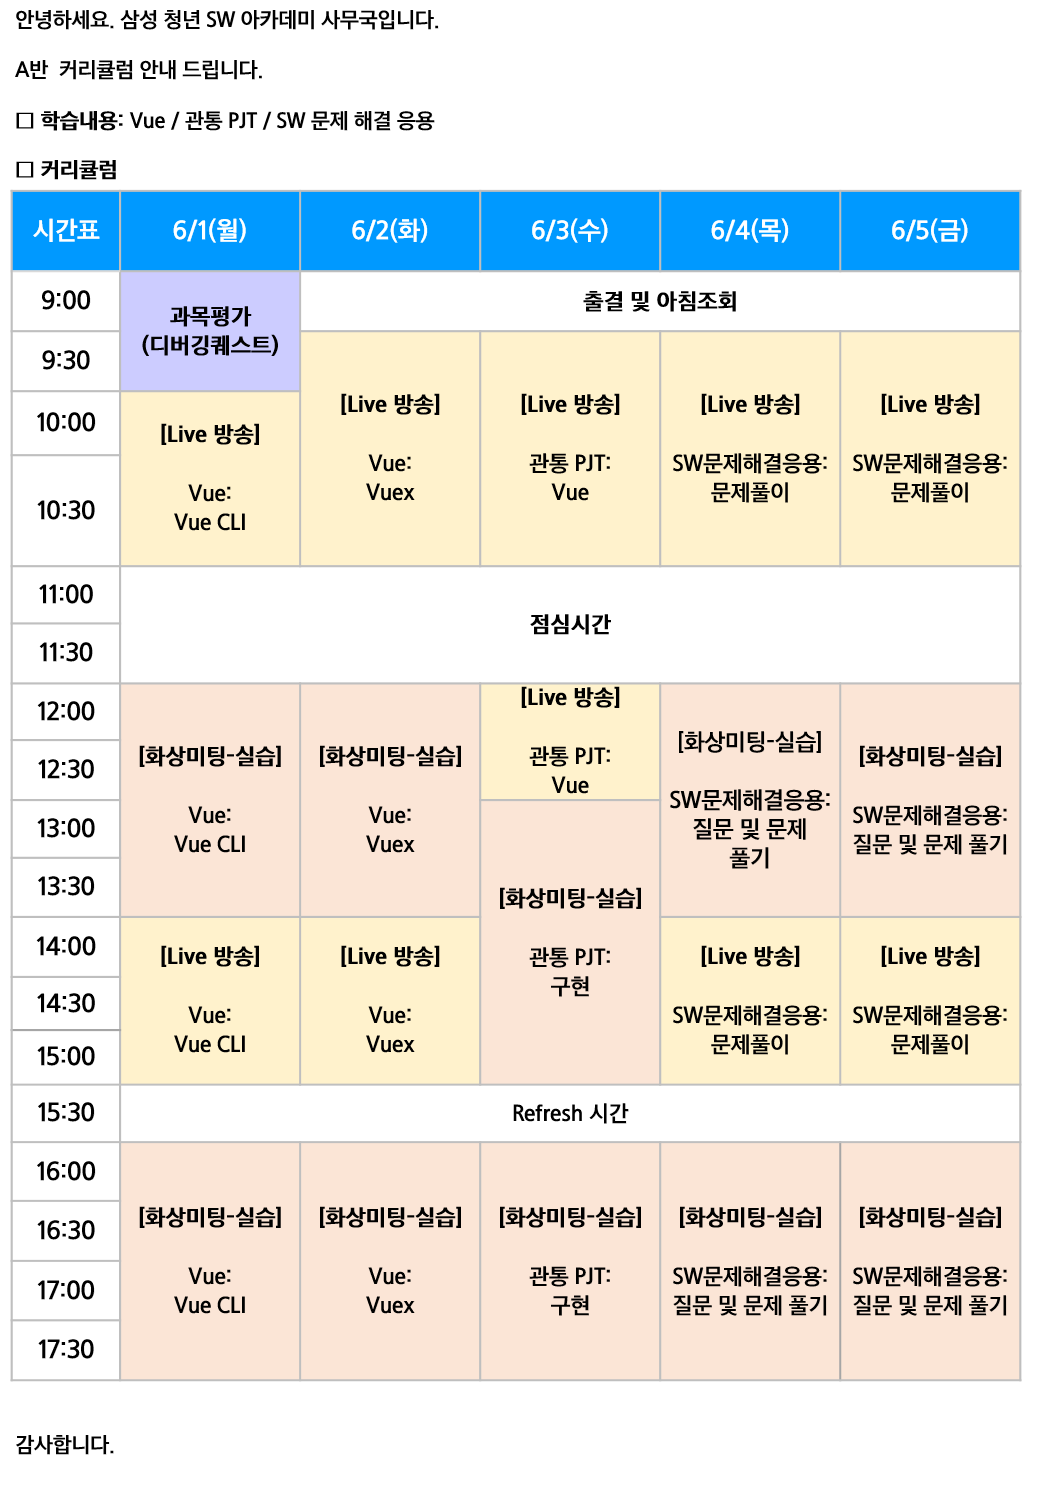
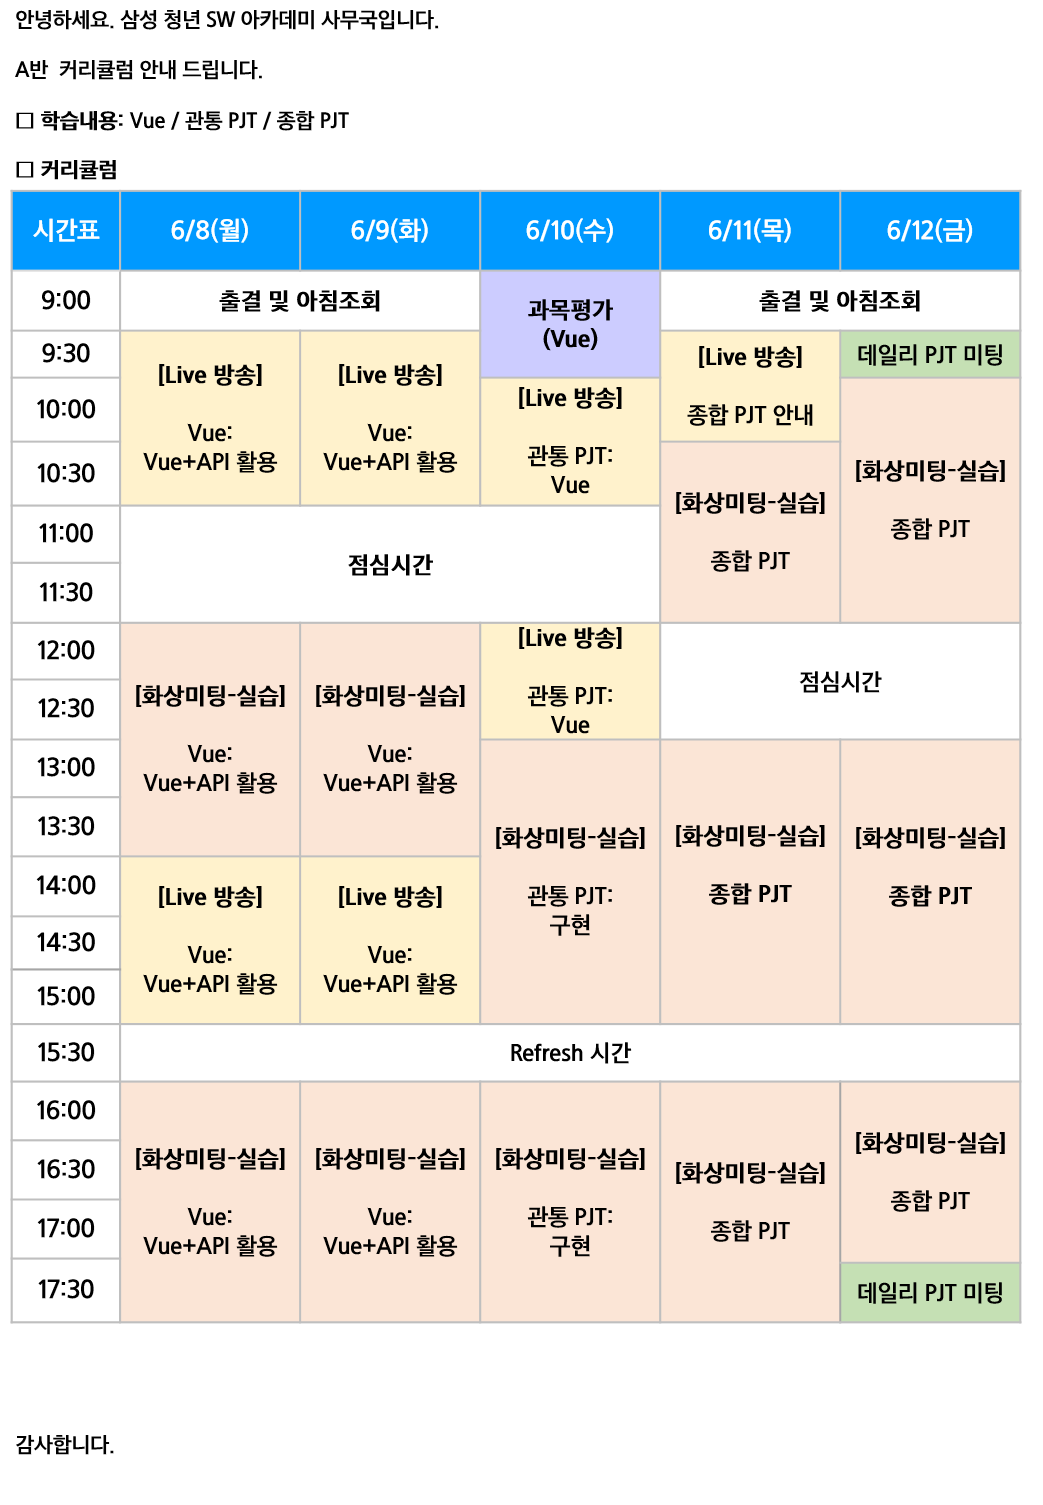
June 2nd week curriculum updated

diff --git a/basic/templates/basic/home.html b/basic/templates/basic/home.html
@@ -10,8 +10,8 @@
 {% endblock %}
 
 {% block contents %}
-<h1 class="imgcaption">6월 1주차 커리큘럼</h1>
+<h1 class="imgcaption">6월 2주차 커리큘럼</h1>
 <div class="imgblock">
-  <img src="{% static 'curriculum/curriculum.png' %}" alt="6월 1주차 커리큘럼" class="imgfile">
+  <img src="{% static 'curriculum/curriculum.png' %}" alt="6월 2주차 커리큘럼" class="imgfile">
 </div>
 {% endblock %}
